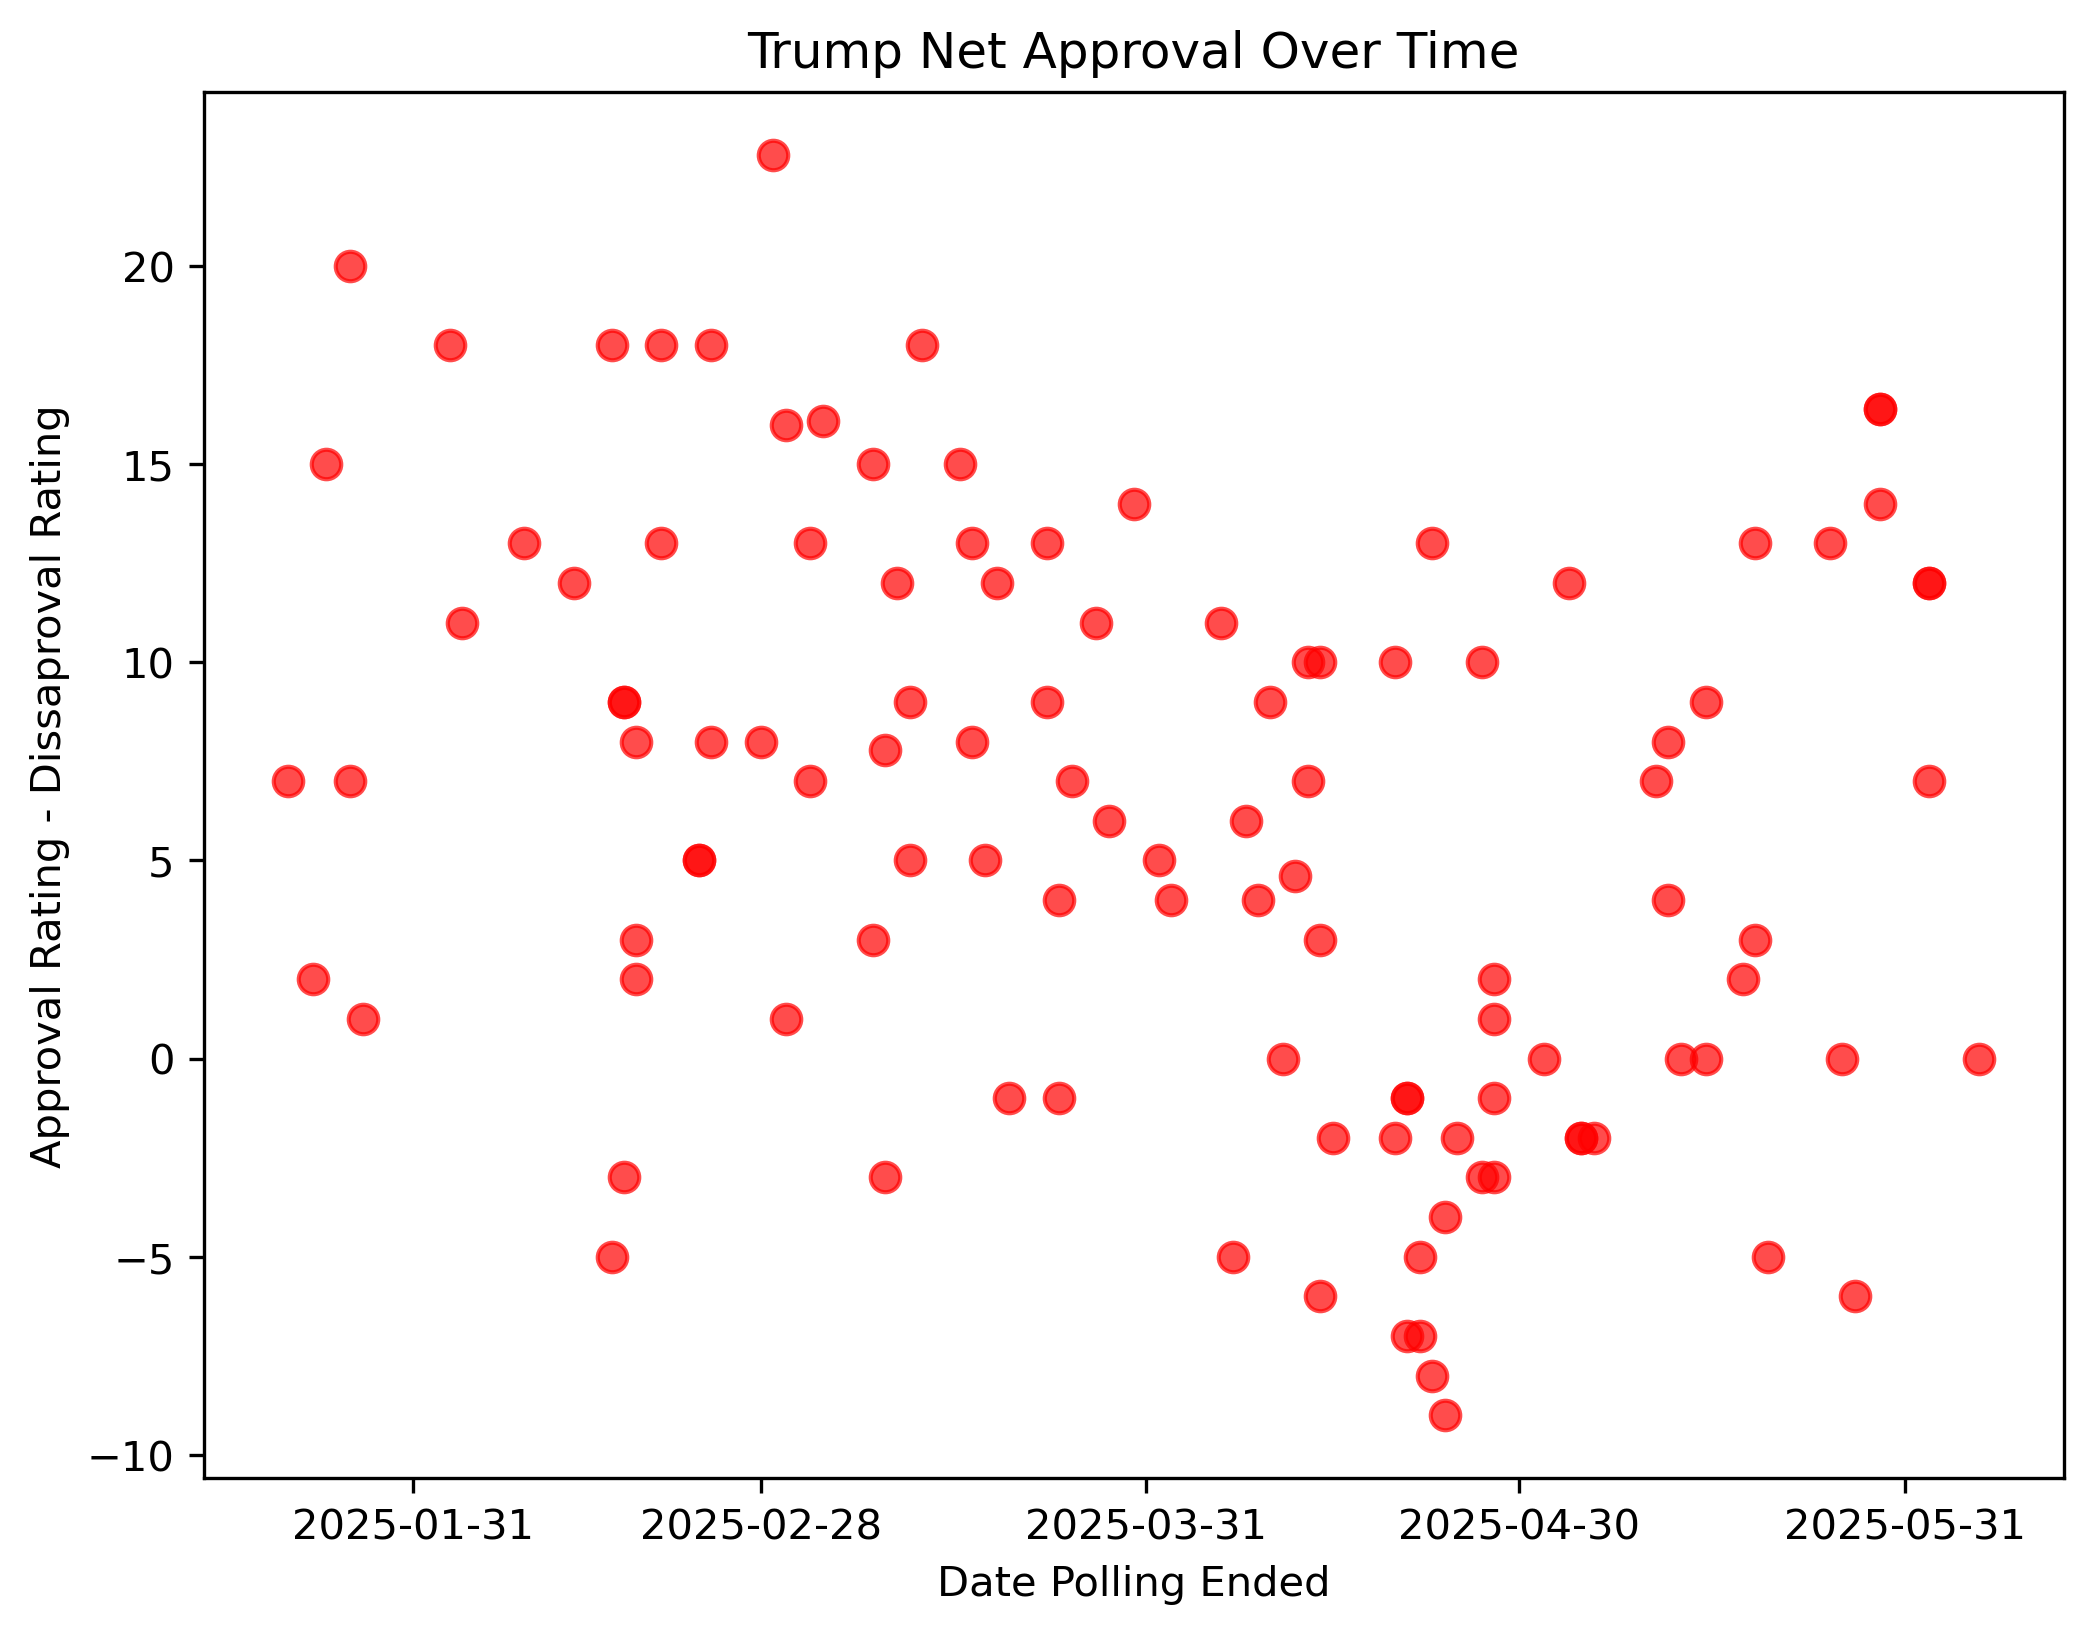
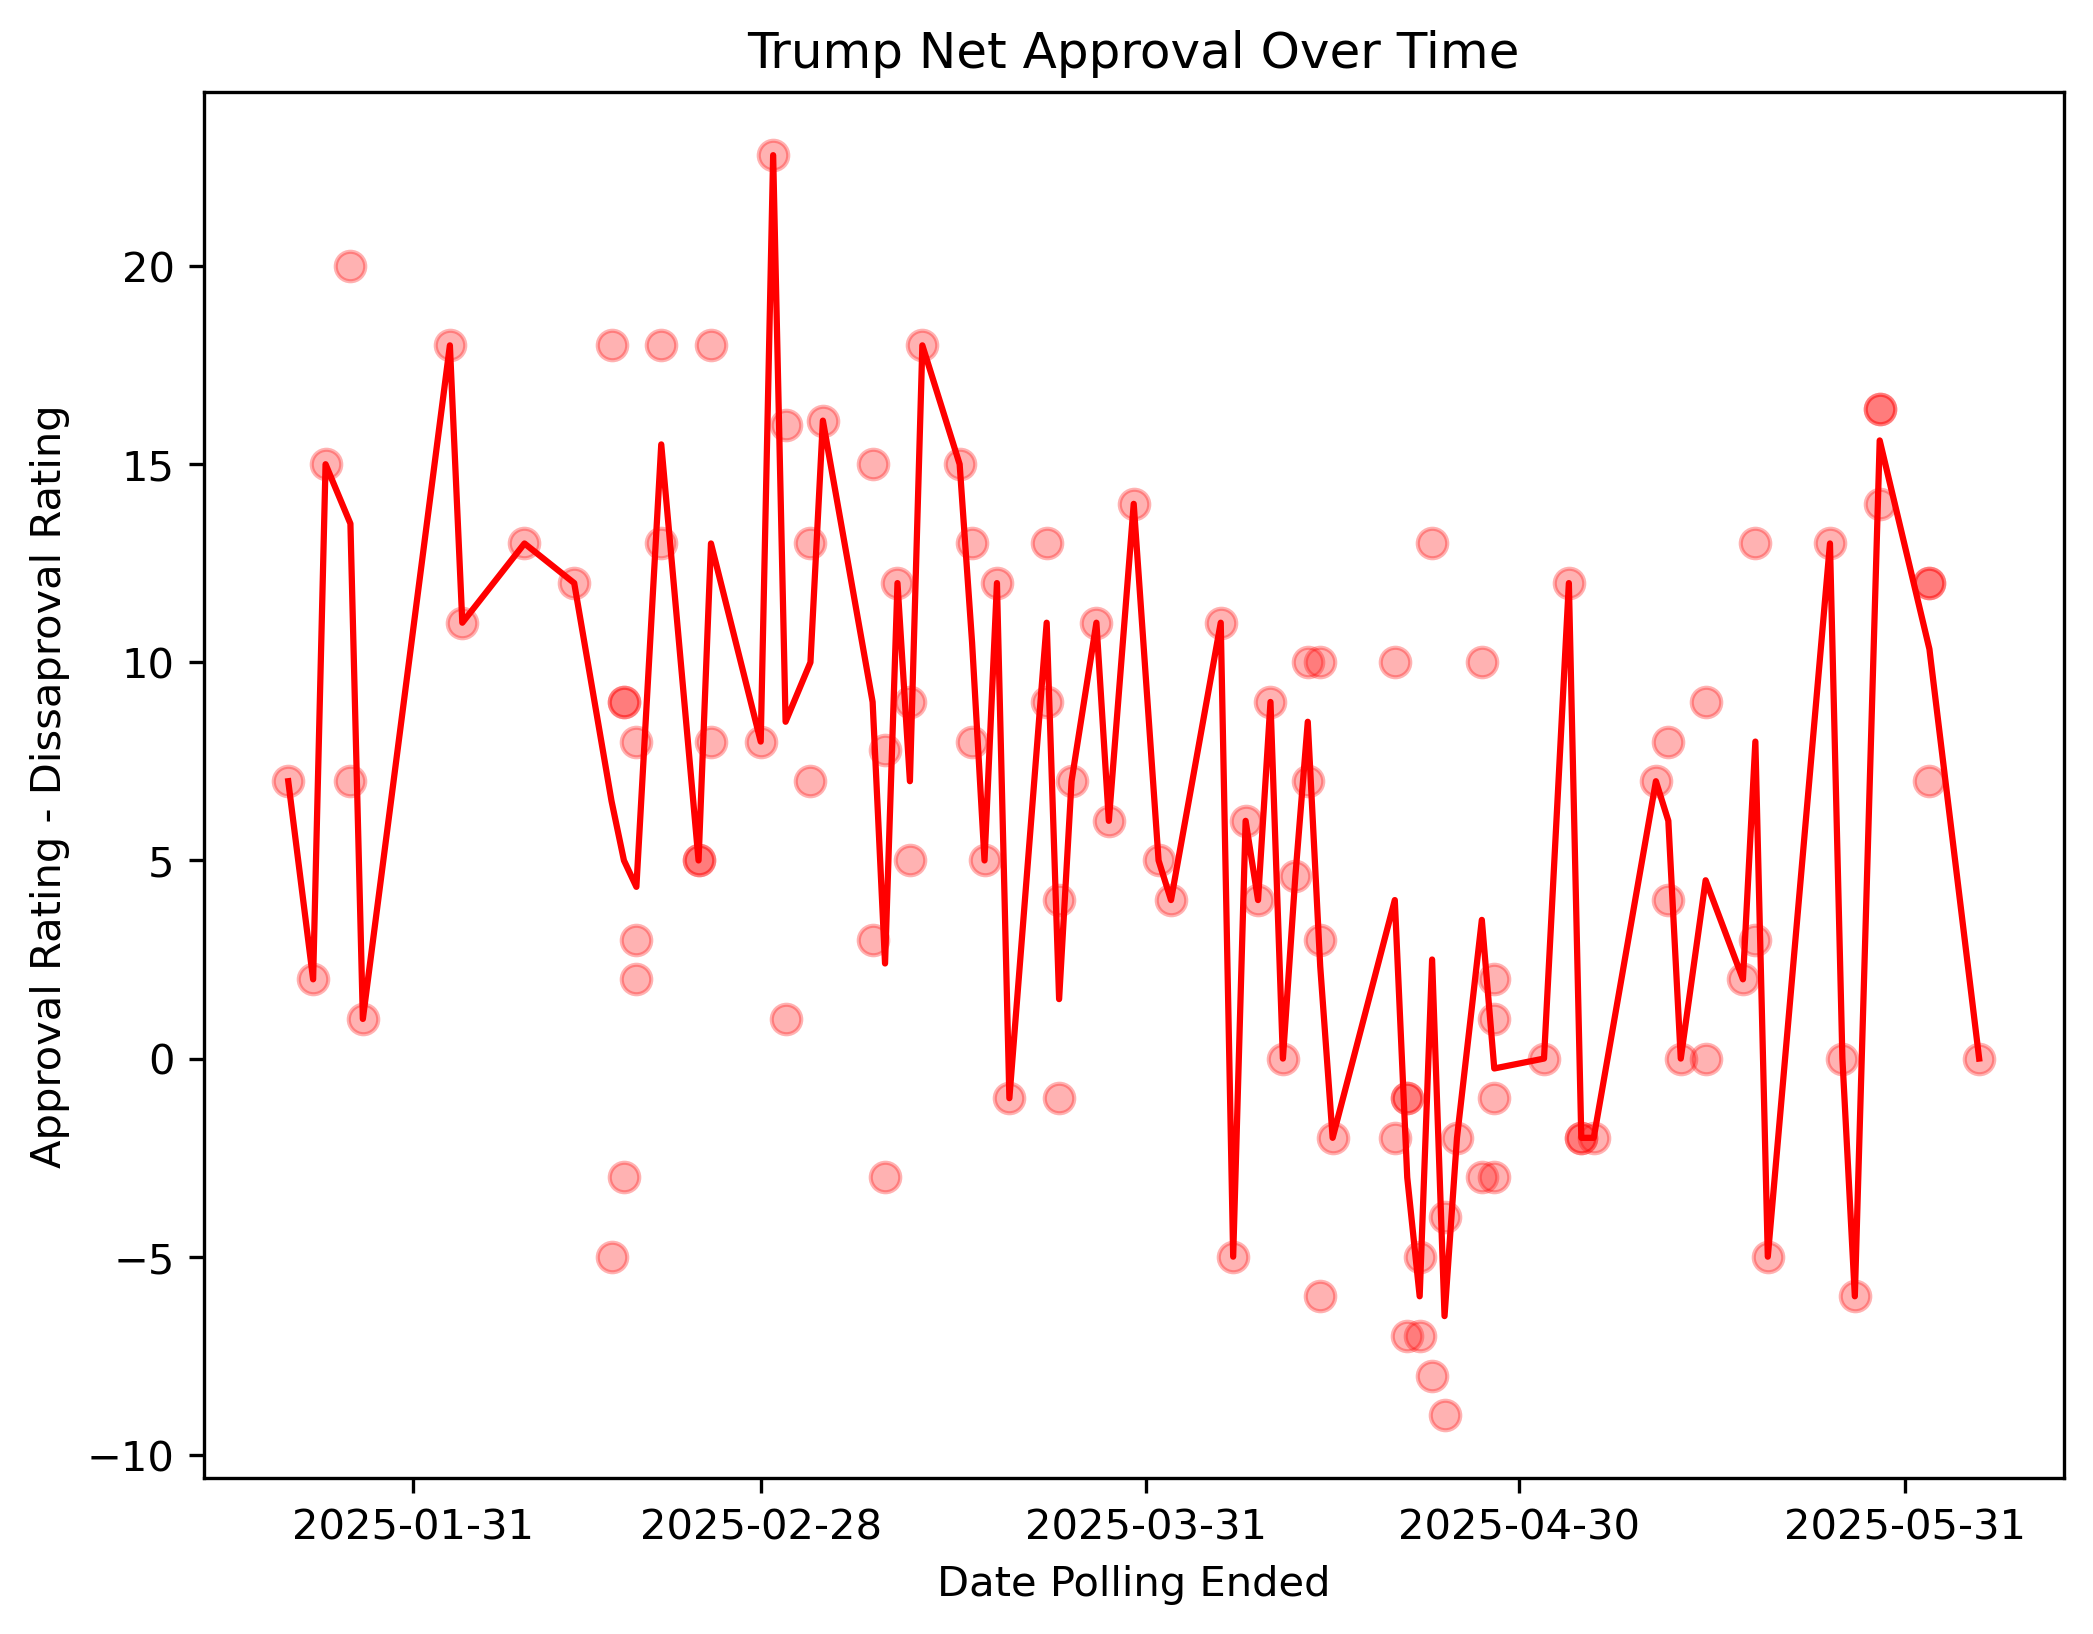
Added Mean Line.

diff --git a/us_presidential_polling/trump_polling.py b/us_presidential_polling/trump_polling.py
@@ -63,11 +63,17 @@ df_clean = split_date_range(df, 'Dates')
 
 df_plot = df_clean[['date_end','Approve', 'Disapprove', 'Net']]
 
+# Create Daily Average
+
+df_plot_mean = df_plot.groupby('date_end').mean()['Net'].reset_index()
+
 # Create Plot
 
 plt.figure(figsize = (8,6))
 
-plt.scatter(df_plot['date_end'], df_plot['Net'], alpha = 0.7, c = 'red', s = 50)
+plt.scatter(df_plot['date_end'], df_plot['Net'], alpha = 0.3, c = 'red', s = 50)
+
+plt.plot(df_plot_mean['date_end'], df_plot_mean['Net'], c = 'red')
 
 plt.xlabel('Date Polling Ended')
 plt.ylabel('Approval Rating - Dissaproval Rating')
